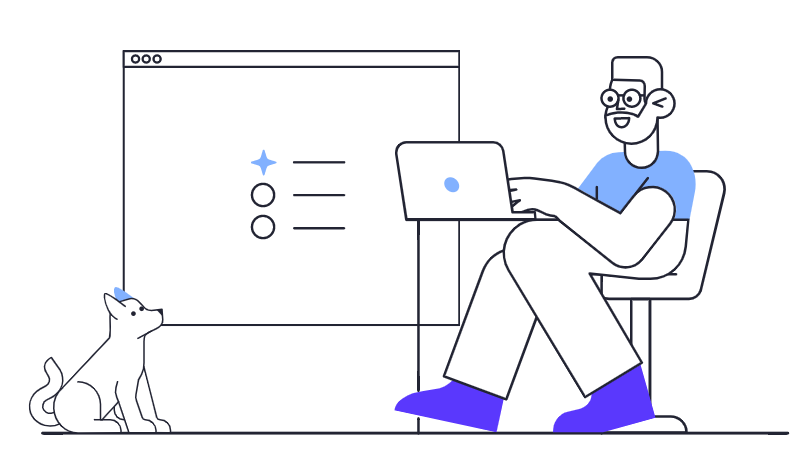
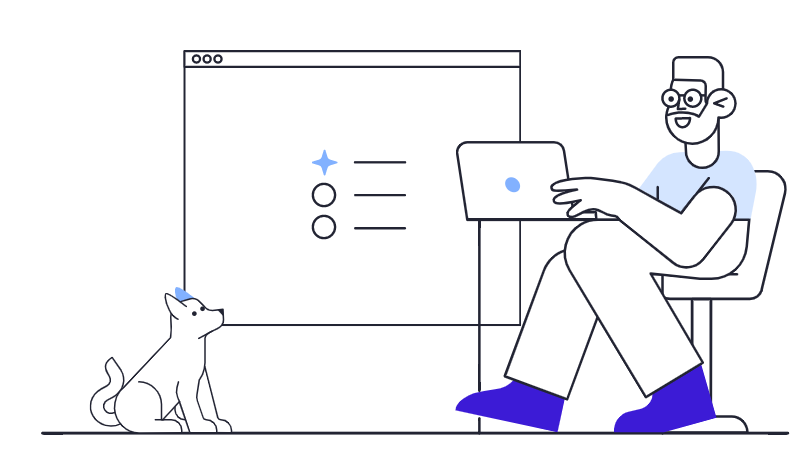
Participants empty state

diff --git a/pages/dashboard.js b/pages/dashboard.js
@@ -5,6 +5,7 @@ import Sidebar from "../components/dashboard-components/Sidebar";
 import Toast from "../components/dashboard-components/Toast";
 import DashboardSection from "../components/dashboard-components/DashboardSection";
 import CampaignList from "../components/dashboard-components/campaign-components/CampaignList";
+import ParticipantList from "../components/dashboard-components/participant-components/ParticipantList";
 
 export default function dashboard() {
 	const [session, loading] = useSession();
@@ -31,6 +32,7 @@ export default function dashboard() {
 				<CampaignList />
 
 				<DashboardSection id="latest-participants" title="Latest Participants" actionLabel="View all participants" actionURL="/participants" />
+				<ParticipantList />
 
 				{toastVisible && <Toast onClose={() => setToastVisible(false)} duration={3000} content={`Test toast...`} />}
 			</div>

diff --git a/components/dashboard-components/participant-components/ParticipantList.js b/components/dashboard-components/participant-components/ParticipantList.js
@@ -1,0 +1,5 @@
+import EmptyState from "../EmptyState";
+
+export default function ParticipantList({ limit = 10 }) {
+	return <EmptyState title="No participants" description="Your campaigns haven't acquired any participants yet." helpLabel="A few ways to acquire participants" helpURL="https://" illustration="participants" />;
+}

diff --git a/styles/molecules/_empty-state.scss b/styles/molecules/_empty-state.scss
@@ -7,7 +7,7 @@
 	width: 100%;
 
 	&__body {
-		max-width: 400px;
+		max-width: 350px;
 		z-index: 1;
 
 		h4 {
